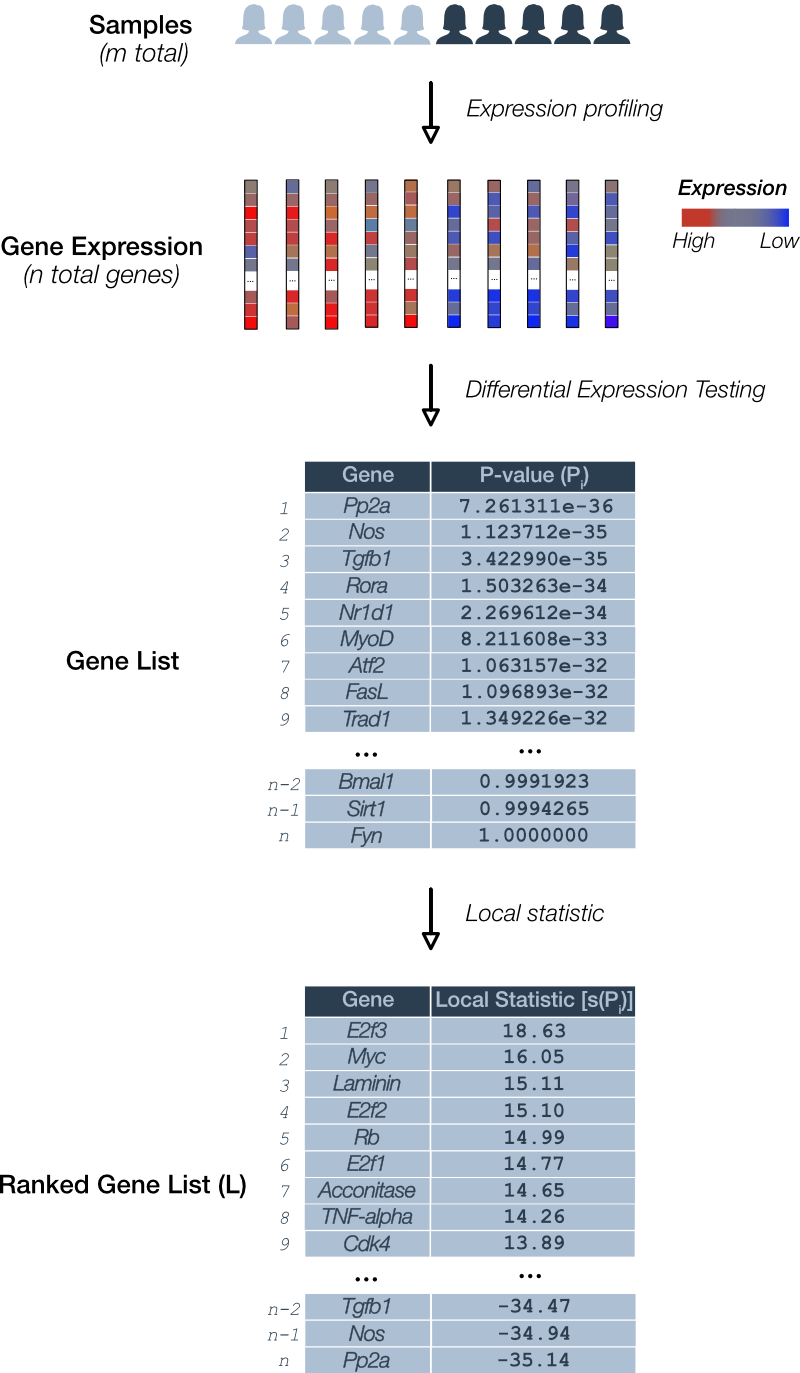
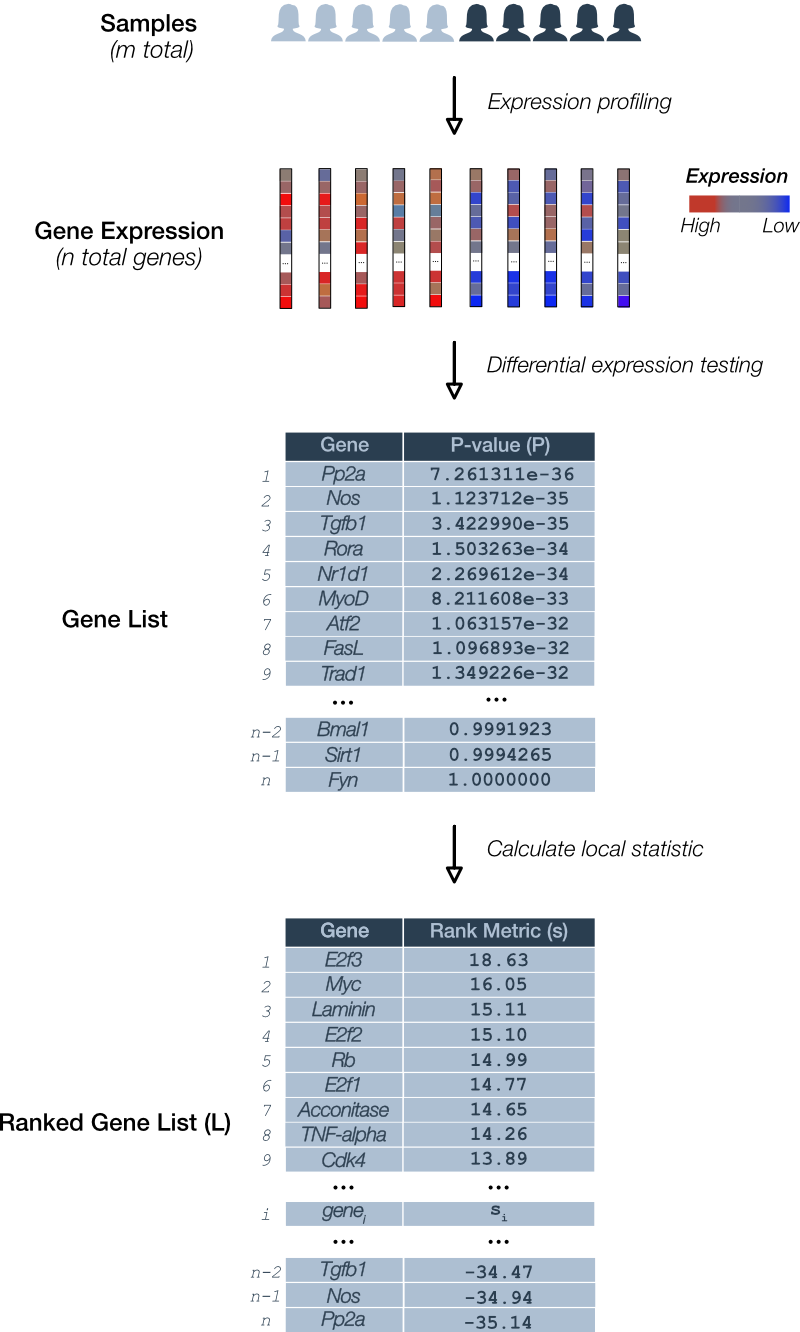
GSEA global; nontechnical

diff --git a/_tools/gsea.md b/_tools/gsea.md
@@ -11,55 +11,61 @@ draft: false
 figures:
   figure_overview: figure_overview.png
   figure_1: figure_gsea_local.png
-  figure_2: figure_gsea_es_sample.png
+  figure_2: figure_gsea_global.png
 ---
 
 - {:.list-unstyled} Table of Contents
   - {:.list-unstyled} [I. Summary & goals](#summaryGoals)
   - {:.list-unstyled} [II. Background](#background)
-  - {:.list-unstyled} [III. Local and global statistics](#localGlobalStatistics)
-  - {:.list-unstyled} [IV. Significance testing](#significanceTesting)
-  - {:.list-unstyled} [V. Multiple testing correction](#multipleTesting)
-  - {:.list-unstyled} [VI. References](#references)
+  - {:.list-unstyled} [III. Local statistic](#localStatistic)
+  - {:.list-unstyled} [IV. Global statistic](#globalStatistic)
+  - {:.list-unstyled} [V. Significance testing](#significanceTesting)
+  - {:.list-unstyled} [VI. Multiple testing correction](#multipleTesting)
+  - {:.list-unstyled} [VII. References](#references)
 
   <hr/>
 
   <div class="alert alert-warning text-justify" role="alert">
-    For this section we will require a rank file ('.rnk') which contains a list of genes ranked by p-value from differential expression testing. In the <a href="{{site.baseurl}}/datasets/archive/">Data Sets</a> section, we have provided samples for TCGA <a href="{{site.baseurl}}/datasets/TCGA_Ovarian_Cancer/process_data/#datasets">ovarian</a> and <a href="{{site.baseurl}}/datasets/TCGA_HNSCC/process_data/#datasets"> head and neck</a> cancer.
+    For this section we will require a rank file ('.rnk') of genes ranked by a function of their respective p-value from differential expression testing. In the <a href="{{site.baseurl}}/datasets/archive/">Data Sets</a> section, we have provided samples for TCGA <a href="{{site.baseurl}}/datasets/TCGA_Ovarian_Cancer/process_data/#datasets">ovarian</a> and <a href="{{site.baseurl}}/datasets/TCGA_HNSCC/process_data/#datasets"> head and neck</a> cancer.
   </div>
 
 ## <a href="#summaryGoals" name="summaryGoals">I. Summary & goals</a>
 
-In this section we will be using [Gene Set Enrichment Analysis (GSEA)](http://software.broadinstitute.org/gsea/index.jsp) to identify pathways enriched in list of genes arising from a differential gene expression analysis. We aim to provide an intuitive rationale for the approach and a brief description of the statistical methods used to defined significantly enriched pathways. By then end of this discussion you should:
+> *Gene Set Enrichment Analysis attempts to answer the question: Does my list of differentially expressed genes indicate alterations in pathways?*
 
-1. Understand how GSEA identifies gene sets and pathways within a gene list
-2. Be aware of the advantages GSEA demonstrates in detecting altered pathways
-2. Be aware of the statistical methods underlying GSEA
-3. Be able to apply GSEA to test our ranked list of DE genes for enriched pathways
+In this section we discuss the use of [Gene Set Enrichment Analysis (GSEA)](http://software.broadinstitute.org/gsea/index.jsp) to identify pathways enriched in gene lists arising from a differential gene expression analysis. We aim to convey how the approach works from an intuitive standpoint before a briefly describing a statistical basis. By then end of this discussion you should:
+
+1. Understand what you can get from GSEA
+2. Be aware of the advantages over previous methods
+3. Understand how GSEA finds enriched gene sets within gene lists
+4. Be aware of the statistical basis of the approach
+5. Be able to use software to test a list of DE genes for enriched pathways
 
 <br/>
 
 ![image]({{ site.baseurl }}/{{ site.media_root }}{{ page.id }}/{{ page.figures.figure_overview }}){: .img-responsive.slim }
 <div class="figure-legend well well-lg text-justify">
-  <strong>Summary and Goals.</strong> This section provides background on GSEA. This approach accepts a gene list of genes ranked according to their expression differences between groups along with a collection of candidate gene sets or pathways. GSEA uses a statistical criteria to filter the gene sets that are significantly enriched in the input gene list.
+  <strong>Summary and Goals.</strong> Gene Set Enrichment Analysis attempts to answer the question: Does my list of differentially expressed genes indicate alterations in pathways? GSEA requires a ranked gene list ordered according to measure of expression differences between groups along with a collection of candidate gene sets or pathways. GSEA uses a statistical criteria to filter the gene sets that are significantly enriched in the input gene list.
 </div>
 
 ## <a href="#background" name="background">II. Background</a>
 
-High-throughput approaches for gene expression measurement can generate a tremendous volume of data but can be unwieldy and easily outstrip intuition. The noisy nature of biological processes further compounds the difficulty in interpreting outputs of large-scale experiments. Clearly, there is a need for robust approaches that places data in a wider context that is more biologically meaningful to the scientific question at hand.
+High-throughput approaches for gene expression measurement can generate a tremendous volume of data but can be unwieldy and easily outstrip intuition. The noisy nature of biological processes compounds the difficulty in interpreting outputs of large-scale experiments. Clearly, there is a need for robust approaches that place data in a wider context that is more biologically meaningful to the scientific question at hand.
 
-To this end, approaches collectively termed 'Overrepresentation Analyses' (ORA) were developed to identify sets of genes known to be related through some common theme within a larger list of genes derived from  experimental results (Khatri 2005, Khatri 2012). In simple terms, ORA approaches leverage prior information about gene sets or pathways that have higher-level functional relevance to identify those that are statistically enriched within a list of genes arising from an experiment. A popular source of sets is the [Gene Ontology (GO)](http://geneontology.org/) which groups of genes according to biological process and molecular function.
+To this end, approaches collectively termed 'Overrepresentation Analyses' (ORA) were developed to take large lists of genes emerging from experimental results and determine whether there was evidence of enrichment for gene sets grouped on the basis of some shared theme (Khatri 2005, Khatri 2012). In simple terms, ORA approaches aim to distill which pathways are present within a list of genes. A popular source of sets is the [Gene Ontology (GO)](http://geneontology.org/) which groups of genes according to various biological processes and molecular functions.
 
-### A SAFE approach
+> *In simple terms, ORA approaches aim to distill which pathways are present within a list of genes*
+
+### The 'SAFE' approach
 
 While tremendously useful for interpreting differential expression output, ORA approaches have three major limitations. First, the inclusion criteria for input gene lists are rather arbitrary and typically involves selecting genes that exceed some user-defined statistical cutoff. This risks excluding potentially important genes that for whatever reason fail to reach statistical significance. Second, ORA approaches use gene names but not any of the rich quantitative information associated with gene expression experiments. In this way, equal importance is assigned to each an every gene. Third, many of the ORA procedures uses statistical procedures that assume independence among genes: Changes in any gene do not affect or are not influenced by any others. Clearly, this is unrealistic for biological systems and has the effect of making ORA procedures more prone to erroneous discoveries or false-positives.
 
-Gene Set Enrichment Analysis (GSEA) is a tool that belongs to a class of second-generation pathway analysis approaches referred to as *functional class scoring (FCS)* (Khatri 2012) and *significance analysis of function and expression (SAFE)* (Barry 2005). These methods are distinguished from their forerunners in that they make use of entire data sets including quantitive data gene expression values or their proxies.
+Gene Set Enrichment Analysis (GSEA) is a tool that belongs to a class of second-generation pathway analysis approaches referred to as *significance analysis of function and expression (SAFE)* (Barry 2005). These methods are distinguished from their forerunners in that they make use of entire data sets including quantitive data gene expression values or their proxies.
 
 Methods that fall under the SAFE framework use a four-step approach to map gene lists onto pathways (Barry 2005).
 
-1. Calculate a local (gene) statistic
-2. Calculate a global (gene set or pathway) statistic
+1. Calculate a local (gene-level) statistic
+2. Calculate a global (gene set or pathway-level) statistic
 3. Determine significance of the global statistic
 4. Adjust for [multiple testing]({{site.baseurl}}/primers/functional_analysis/multiple_testing/)
 
@@ -75,157 +81,82 @@ Importantly, the prominence of OXPHOS genes provided the necessary clues for the
 
 Criticisms concerning the original methodology (Damian 2004) were considered in an updated version of GSEA described in detail by Subramanian *et al.* (Subramanian 2005). Below, we provide a description of the approach with particular emphasis on the protocol we recommend for analyzing gene lists ranked according to differential expression.
 
-## <a href="#localGlobalStatistics" name="localGlobalStatistics">III. Local and global statistics</a>
+## <a href="#localStatistics" name="localStatistics">III. Local statistic</a>
 
 <div class="alert alert-danger text-justify" role="alert">
-  <strong>Caution!</strong> Our procedure for analyzing differential expression data using GSEA diverges from that detailed by Subramanian <em>et al.</em> (Subramanian 2005) with respect to the calculation of local statistics and normalization.
+  <strong>Caution!</strong> Our procedure for analyzing differential expression data using GSEA diverges from that detailed by Subramanian <em>et al.</em> (Subramanian 2005) with respect to the calculation of local statistics.
 </div>
 
-Here we describe how GSEA generates local (gene-level) and global (gene set or pathway-level) statistics, representing the first two stages in the general SAFE framework.
+In this step, we desire some local or gene-level measure that will be used to rank genes. In GSEA terminology this is referred to as a 'rank metric'. Previously, we described how to [obtain and process RNA-seq datasets]({{site.baseurl}}/datasets/archive/) into a single list of genes ordered according to a function of each gene's p-value calculated as part of differential expression testing. In this context, a p-value assigned to a gene can be interpreted as the probability of a difference in gene expression between groups at least as extreme as that observed when in fact, no inter-group difference exists. We simply declare this function of p-values the rank metric (Figure 1).
 
-### Local statistic
-
-Elsewhere in this guide, we describe how to [obtain various RNA-seq datasets]({{site.baseurl}}/datasets/archive/) and process them into a single gene list ordered according to a function of each gene's p-value obtained from differential expression testing (Figure 1).
+> *In this context, a p-value assigned to a gene can be interpreted as the probability of a difference in gene expression between groups at least as extreme as that observed when in fact, no inter-group difference exists*
 
 ![image]({{ site.baseurl }}/{{ site.media_root }}{{ page.id }}/{{ page.figures.figure_1 }}){: .img-responsive.slim }
 <div class="figure-legend well well-lg text-justify">
-  <strong>Figure 1. Deriving a GSEA local statistic.</strong> Shown is a pairwise comparison of gene expression for samples (m total). RNA levels for each of gene are determined (n total genes). Differential expression testing assigns a p-value (P) for each gene. The p-value is used to derive the 'local' (gene-level) statistic (s(P)). Genes are placed in a ranked gene list (L) according to the value of the local statistic.
+  <strong>Figure 1. Deriving the GSEA local statistic: Rank metric.</strong> Shown is a pairwise comparison of gene expression for samples (m total). RNA levels for each of gene are determined (n total). Differential expression testing assigns a p-value (P) to each gene and is used to derive the local statistic called the rank metric (s). A gene list (L) is ordered according to the value of the rank metric.
 </div>
 
-The local statistic in our case is a simple transformation of the p-value ($$P$$).
+The rank metric in our case is a simple function of the p-value ($$P$$)
 
 $$
   \begin{equation*}
-    s(P_i) = sign(\text{Fold Change})\cdot -log_{10}(P_i)
+    s_i=s(P_i) = sign(\text{Log fold change gene }i)\cdot -log_{10}(P_i)
   \end{equation*}
 $$
 
-In this case, genes at the top of the list of those with the smallest p-values amongst up-regulated genes whereas at the bottom are those with the smallest p-values amongst down-regulated genes. The benefit for us is that we have no extra work to do: This part of the GSEA procedure is complete. To make the following discussion more concise, we summarize our notation adapted from Tamayo *et al.* (Tamayo 2016).
+Under this rank metric, up-regulated genes with relatively small p-values appear at the top of the list; Down-regulated genes with small p-values appear at the bottom. If you have followed the instructions we provided for RNA-seq datasets to generate the ranked list then you have already calculated the rank metric. To make the following discussion more concise, we summarize the relevant notation, adapted from Tamayo *et al.* (Tamayo 2016).
 
-- {:.list-unstyled} Notation for local statistic
+- {:.list-unstyled} **Notation for local statistic**
   - {:.list-unstyled} Number of biological samples: $$m$$
-  - {:.list-unstyled} Number of genes or 'features': $$n$$
+  - {:.list-unstyled} Number of genes: $$n$$
+  - {:.list-unstyled} P-value: $$P$$
+  - {:.list-unstyled} Local statistic or rank metric: $$s_i$$
   - {:.list-unstyled} Ranked gene list: $$L$$
-  - {:.list-unstyled} P-value for gene $$i$$: $$P_i$$ where $$1 \leq i \leq N$$
-  - {:.list-unstyled} Local statistic: $$s(P_i)$$
 
 
-### Enrichment score calculation
+## <a href="#globalStatistics" name="globalStatistics">IV. Global statistic</a>
 
-1. *Create ranked gene list*
+This step is at the very heart of GSEA. The rather simple calculations belie a more profound statistical approach that tests each candidate gene set using the rank metrics. We begin by describing the global statistic which measures how enriched our ranked gene list is for members of a given candidate gene set or pathway. In GSEA terminology, this is referred to as the 'enrichment score'. For the more curious, this is followed by a more technical description of the statistical basis of the procedure.
 
-    The scoring function $$r(g_j)$$ maps a gene into a metric ($$r_j$$). In our discussion of [RNA-seq data processing]({{site.baseurl}}/datasets/archive/) we use p-values ($$P$$) derived from a differential expression analysis.
+### Non-technical description: A sample calculation
 
-    $$
-    \begin{equation*}
-      \begin{split}
-        r_j &\equiv r(g_j) = -log(\text{P}) \cdot sign(\text{Fold Change})\\        
-      \end{split}
-    \end{equation*}
-    $$
-
-    > *Subramanian et al. use correlation with phenotype as the metric.*
-
-    Represent the ordered list ($$L$$) as the set
-
-    $$
-    \begin{equation*}
-      \begin{split}
-        L &= \{g_j: j=1,\ldots, N \} \text{ where } r_1 \leq \cdots \leq r_j \leq \cdots \leq r_N
-      \end{split}
-    \end{equation*}
-    $$
-
-2. *Score the ranked gene list*
-
-    Call the intersection of the ranked list $$L$$ and candidate gene set $$S$$  'hits' and those not shared 'misses'. Then the enrichment score (ES) for a given gene set is defined as
-
-    $$
-    \begin{equation*}
-      \begin{split}
-        ES(S) = \max_{i} \left[ P_{hit}(S,i) - P_{miss}(S,i) \right]\\
-      \end{split}
-    \end{equation*}
-    $$
-
-    where
-
-    $$
-    \begin{equation*}
-      \begin{split}
-        P_{hit}(S,i) &= \sum\limits_{\begin{split} g_j &\in S\\  j &\leq i \end{split} } \frac{|r_j|^p}{N_R}
-          \quad \text{ where } \quad N_R = \sum|r_j|^p \\
-        P_{miss}(S,i) &= \sum\limits_{\begin{split} g_j &\not\in S\\  j &\leq i \end{split} }
-          \frac{1}{N-N_H}\\
-      \end{split}
-    \end{equation*}
-    $$
-
-#### Sample calculation
-
-Let us reuse the setup depicted in Figure 1 for a pairwise comparison of differential expression. In particular, let's pick up the process after having declared the genes in the cell cycle gene set that are members of the ranked list (Figure 2).
+Let us set aside the technical details for a moment to see how the GSEA software derives the global statistic - the enrichment score. In particular, let's pick up the process after having calculated the rank metric as shown in Figure 1. For illustrative purposes, suppose we wish to test the list for enrichment of a cell cycle pathway candidate gene set (Figure 2).
 
 ![image]({{ site.baseurl }}/{{ site.media_root }}{{ page.id }}/{{ page.figures.figure_2 }}){: .img-responsive.slim }
 <div class="figure-legend well well-lg text-justify">
-  <strong>Figure 2. Sample calculation of enrichment score for hypothetical data in Figure 1.</strong> Shown is a gene list (L) ordered according to the p-value from a differential expression analysis. The red highlights indicate the genes in the candidate set for Cell Cycle set (S). The green region highlighted represents the genes for P_hit relevant to the ES.
+  <strong>Figure 2. Sample calculation of global statistic: The GSEA enrichment score.</strong> The process requires the ranked gene list (L) ordered according to the ranking metric along with a candidate gene set (G). In this case, the candidate is a mammalian cell cycle entry pathway. A running sum is calculated by starting at the top of the ranked list and considering each gene in succession: Add to the sum if the gene is present in gene set (red; +) and decrement the sum otherwise (-). The GSEA enrichment score (S) is the largest value that the running sum achieves (horizontal axis).
 </div>
 
-For simplicity, let $$p=1$$ and suppose that the number of genes in our list is $$N=1000$$ and the size of the cell cycle gene set $$S$$ is $$N_H=20$$. If members of the cell cycle gene set $$S$$ are restricted to the top 9 genes in $$L$$ then
+GSEA considers each candidate gene set in succession. The process of calculating the global statistic - the enrichment score - begins by starting at the stop of the ranked gene list. For each gene in the list, if it is a member of the candidate gene set then add to the running sum otherwise, subtract from the running sum. When this is done for all genes in the ranked list, the enrichment score for that particular gene set is equal to the largest value of the running sum.
+
+One aspect of this algorithm that we side-stepped is the actual value that gets added or subtracted from the running sum. In the original version of GSEA (Mootha 2003) the values were chosen specifically such that the sum of increments and decrements across the entire list would be zero. In Figure 2, this would be equivalent to the running sum meeting the horizontal axis at the end of the list. In this case, the enrichment score is the [Kolmogorov-Smirnov (K-S) statistic](//TODO) that can be used in a statistical procedure called 'K-S Goodness-of-Fit' tests that determine if the enrichment score is significant. The updated procedure described by Subramanian *et al* (Subramanian 2005) uses a 'weighted' version of the procedure whereby the increments to the running sum are proportional to the rank metric for that gene. The reasons for these choices are rather mathematical, which we reserve for those more curious in the following section. 
+
+#### Technical description
+
+Consider a particular gene set $$G_k$$  indexed by $$1 \leq k \leq K$$ consisting of of $$n_k$$ genes ($$g_{kj}$$), that is $$G_k=\{g_{kj}: 1 \leq j \leq n_k\}$$. The [GSEA protocol](http://software.broadinstitute.org/gsea/doc/GSEAUserGuideFrame.html) recommends that $$25 \leq n_k \leq 500$$ as normalization for gene set size is not accurate outside this range (below). Note that the genes within the gene set must be represented in the ranked list of genes $$L$$.
+
+Define the enrichment score for a given gene set as $$S^{GSEA}_k$$ which is a weighted Kolmogorov-Smirnov statistic.
 
 $$
 \begin{equation*}
   \begin{split}
-    P_{hit}(S,9) &= \sum\limits_{\begin{split} g_j &\in S\\  j &\leq 9 \end{split} } \frac{|r_j|}{N_R}\\    
-      &= \frac{|r_1|}{N_R} + \frac{|r_2|}{N_R} + \frac{|r_4|}{N_R} + \frac{|r_5|}{N_R} + \frac{|r_6|}{N_R} + \frac{|r_9|}{N_R}\\    
-      &= \frac{18.63}{123.59} + \frac{16.05}{123.59} + \frac{15.10}{123.59} + \frac{14.99}{123.59} + \frac{14.77}{123.59} + \frac{13.89}{123.59}\\
-      &= \frac{93.82}{123.59} \approx 0.759\\    
+    S^{GSEA}_k = \sup_{1 \leq i \leq n} (F_i-F_i)\\
   \end{split}
 \end{equation*}
 $$
 
-In this case the value of $$P_{\text{hit}}$$ represents the proportion of p-values from cell cycle genes. Likewise, the value of $$P_{\text{miss}}$$ is calculated from examining the first 9 genes of $$L$$ not in $$S$$.
+Where the position in the ranked gene list $$L$$ is indexed by $$i$$.
 
 $$
 \begin{equation*}
   \begin{split}
-    P_{miss}(S,9) &= \sum\limits_{\begin{split} g_j &\not\in S\\  j &\leq 9 \end{split} } \frac{1}{N-N_H}\\
-      &= \frac{1}{N - N_H} + \frac{1}{N - N_H} + \frac{1}{N - N_H}\\
-      &= 3 \cdot \frac{1}{1000 - 20} = 0.003\\
   \end{split}
 \end{equation*}
 $$
 
-Then the ES is the difference between the two.
-
-$$
-\begin{equation*}
-  \begin{split}
-    ES(S) &= P_{hit}(S,9) - P_{miss}(S,9)\\
-      &= 0.759 - 0.003 = 0.756 \\
-  \end{split}
-\end{equation*}
-$$
-
-It should be obvious from the tiny value of $$P_{\text{miss}}$$ that calculating the running sum for any index $$i \leq 9$$ would not give a larger value.
 
 ### Why does GSEA 'work'?
 
-- How can I trust this? What was the ground truth it tested against - It preserves our original results in ref 4. (Mootha 2003) with the oxidative phosphorylation pathway significantly enriched in the normal samples.  6 more examples, also Male vs Female Lymphoblastoind, p53 status in cancer cell lines
-  - Lung cancer
-    - this is  a good example to describe how gene-wise analysis might fail whereas pathway-level anaylses were able to reconcile the disparity betweeen the data sets.
-
-
-- Why does being at the top or bottom of the list matter?
-
-    Clearly this arises because the running sum incorporates a metric that underlies the ordering of genes in the list. In the original publication, this metric is the correlation between expression and phenotype; In our case we describe p-values arising from a differential expression analysis.
-
-    $$
-    \begin{equation*}
-      \begin{split}
-        P_{hit}(S,i) &= \sum\limits_{\begin{split} g_j &\in S\\  j &\leq 6 \end{split} } \frac{|r_j|}{N_R}\\
-      \end{split}
-    \end{equation*}
-    $$
 
 ### What is the significance of the weight $$p$$?
 
@@ -234,7 +165,7 @@ When $$p=1$$, we are weighting the genes by their metric (correlation, p-value) 
 
 If one is interested in penalizing sets for lack of coherence or to discover sets with any type of nonrandom distribution of tags, $$p < 1$$ might be appropriate. If one uses sets with a large number of genes and only a small subset are expected to be coherent, then consider using $$p>1$$.
 
-## <a href="#significanceTesting" name="significanceTesting">III. Significance testing</a>
+## <a href="#significanceTesting" name="significanceTesting">V. Significance testing</a>
 
 The approach can be framed in hypothesis testing language: GSEA gathers evidence to support or cast doubt upon a null hypothesis of **random rank ordering of genes** in a given comparison with respect to sample categorization.
 
@@ -242,16 +173,12 @@ The approach can be framed in hypothesis testing language: GSEA gathers evidence
 
 - When permuting class labels, is GSEA doing any normalization? Is this why we use pre-ranked lists?
 
-## <a href="#multipleTesting" name="multipleTesting">IV. Multiple testing correction</a>
+## <a href="#multipleTesting" name="multipleTesting">VI. Multiple testing correction</a>
 
 The ES are normalized to account for the number of genes in the candidate set (G) to yield a normalized enrichment score (NES).
 
 The false discovery rate is then calculated empirically from the tails of the observed and null distribution (Noble 2009).
 
 
-## <a href="#gsea" name="gsea">V. Gene Set Enrichment Analysis</a>
-
-Gene Set Enrichment Analysis. How do I retrieve gene sets?
-
-## <a href="#references" name="references">VI. References</a>
+## <a href="#references" name="references">VII. References</a>
 <!-- <div class="panel_group" data-inline="15226741,26125594,19192285,15647293,15994189,22383865,12808457,20010596,16199517,23070592"></div> -->
